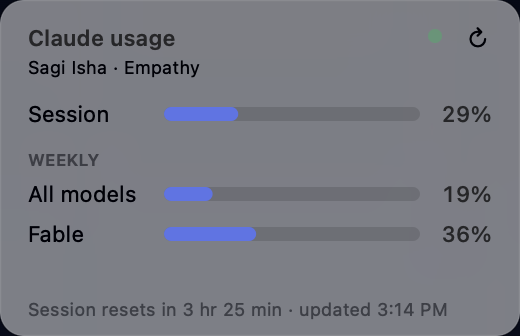
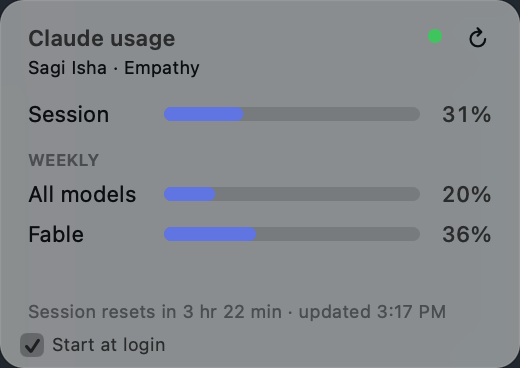
Add Start at login toggle
Mini checkbox at the bottom of the widget writes/removes a LaunchAgent
plist pointing at the binary's current path. README updated to match;
refreshed screenshot.

diff --git a/ClaudeUsageWidget.swift b/ClaudeUsageWidget.swift
@@ -280,6 +280,43 @@ final class Row {
     }
 }
 
+// MARK: - Start at login (LaunchAgent)
+
+let agentPlistURL = FileManager.default.homeDirectoryForCurrentUser
+    .appendingPathComponent("Library/LaunchAgents/com.empathy.claude-usage-widget.plist")
+
+func executablePath() -> String {
+    let raw = CommandLine.arguments[0]
+    if raw.hasPrefix("/") { return raw }
+    return URL(fileURLWithPath: FileManager.default.currentDirectoryPath)
+        .appendingPathComponent(raw).standardizedFileURL.path
+}
+
+func setStartAtLogin(_ enabled: Bool) {
+    if enabled {
+        let plist: [String: Any] = [
+            "Label": "com.empathy.claude-usage-widget",
+            "ProgramArguments": [executablePath()],
+            "RunAtLoad": true,
+        ]
+        try? FileManager.default.createDirectory(
+            at: agentPlistURL.deletingLastPathComponent(), withIntermediateDirectories: true)
+        if let data = try? PropertyListSerialization.data(
+            fromPropertyList: plist, format: .xml, options: 0) {
+            try? data.write(to: agentPlistURL)
+        }
+        // Not loaded via launchctl here — that would spawn a second instance.
+        // RunAtLoad picks it up at next login.
+    } else {
+        let p = Process()
+        p.executableURL = URL(fileURLWithPath: "/bin/launchctl")
+        p.arguments = ["unload", agentPlistURL.path]
+        try? p.run()
+        p.waitUntilExit()
+        try? FileManager.default.removeItem(at: agentPlistURL)
+    }
+}
+
 // MARK: - App
 
 final class AppDelegate: NSObject, NSApplicationDelegate {
@@ -309,7 +346,7 @@ final class AppDelegate: NSObject, NSApplicationDelegate {
     }
 
     func buildPanel() {
-        let width: CGFloat = 260, height: CGFloat = 168
+        let width: CGFloat = 260, height: CGFloat = 184
         panel = NSPanel(
             contentRect: NSRect(x: 0, y: 0, width: width, height: height),
             styleMask: [.borderless, .nonactivatingPanel],
@@ -375,9 +412,18 @@ final class AppDelegate: NSObject, NSApplicationDelegate {
 
         footer.font = .systemFont(ofSize: 9)
         footer.textColor = .tertiaryLabelColor
-        footer.frame = NSRect(x: pad, y: 7, width: width - pad * 2, height: 12)
+        footer.frame = NSRect(x: pad, y: 22, width: width - pad * 2, height: 12)
         footer.lineBreakMode = .byTruncatingTail
         effect.addSubview(footer)
+
+        let loginToggle = NSButton(checkboxWithTitle: "Start at login",
+                                   target: self, action: #selector(loginToggled(_:)))
+        loginToggle.controlSize = .mini
+        loginToggle.font = .systemFont(ofSize: 9)
+        loginToggle.frame = NSRect(x: pad - 2, y: 4, width: 120, height: 16)
+        loginToggle.state = FileManager.default.fileExists(atPath: agentPlistURL.path) ? .on : .off
+        loginToggle.toolTip = "Launch the widget automatically when you log in"
+        effect.addSubview(loginToggle)
 
         let menu = NSMenu()
         menu.addItem(NSMenuItem(title: "Refresh now", action: #selector(refreshClicked), keyEquivalent: "r"))
@@ -397,6 +443,7 @@ final class AppDelegate: NSObject, NSApplicationDelegate {
 
     @objc func refreshClicked() { refresh() }
     @objc func quit() { NSApp.terminate(nil) }
+    @objc func loginToggled(_ sender: NSButton) { setStartAtLogin(sender.state == .on) }
 
     func refresh() {
         fetchUsage { [weak self] result in

diff --git a/README.md b/README.md
@@ -25,19 +25,11 @@ Native Swift/AppKit, no dependencies.
    macOS will ask to allow Keychain access to your Claude Code credentials —
    click **Always Allow**. The widget appears in the top-right corner; drag it
    wherever you like.
-4. **(Optional) Start at login**:
-   ```sh
-   cat > ~/Library/LaunchAgents/com.empathy.claude-usage-widget.plist <<EOF
-   <?xml version="1.0" encoding="UTF-8"?>
-   <!DOCTYPE plist PUBLIC "-//Apple//DTD PLIST 1.0//EN" "http://www.apple.com/DTDs/PropertyList-1.0.dtd">
-   <plist version="1.0"><dict>
-     <key>Label</key><string>com.empathy.claude-usage-widget</string>
-     <key>ProgramArguments</key><array><string>$PWD/ClaudeUsageWidget</string></array>
-     <key>RunAtLoad</key><true/>
-   </dict></plist>
-   EOF
-   launchctl load ~/Library/LaunchAgents/com.empathy.claude-usage-widget.plist
-   ```
+4. **(Optional) Start at login**: tick the **Start at login** checkbox at the
+   bottom of the widget. It writes a LaunchAgent
+   (`~/Library/LaunchAgents/com.empathy.claude-usage-widget.plist`) pointing at
+   the binary's current location; untick to remove it. Takes effect at next
+   login — don't move the binary afterwards, or re-tick the box if you do.
 
 ## How it works
 
